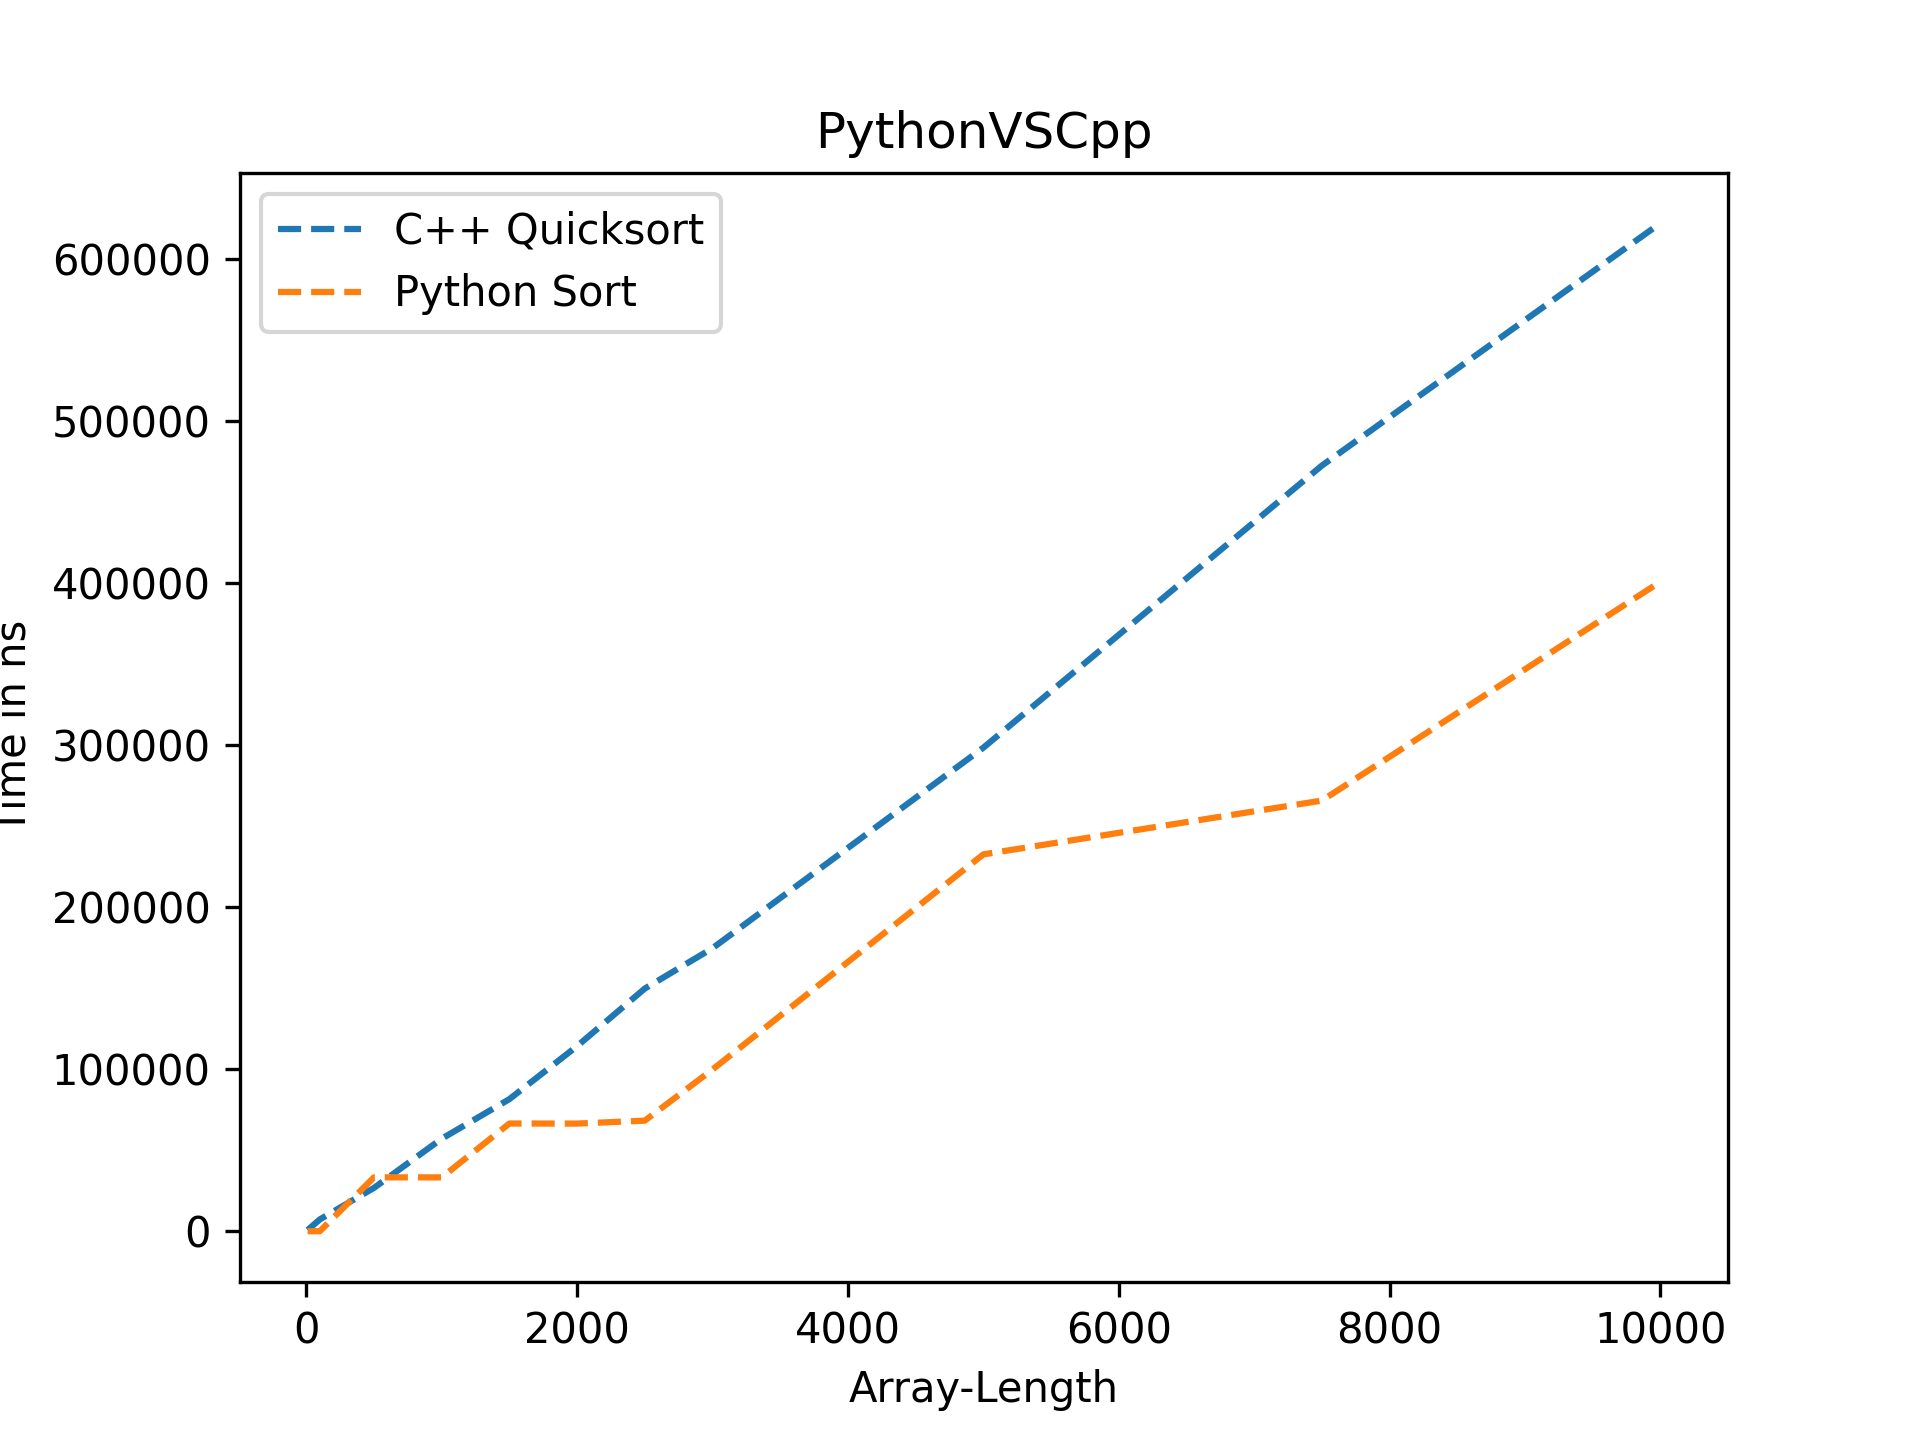
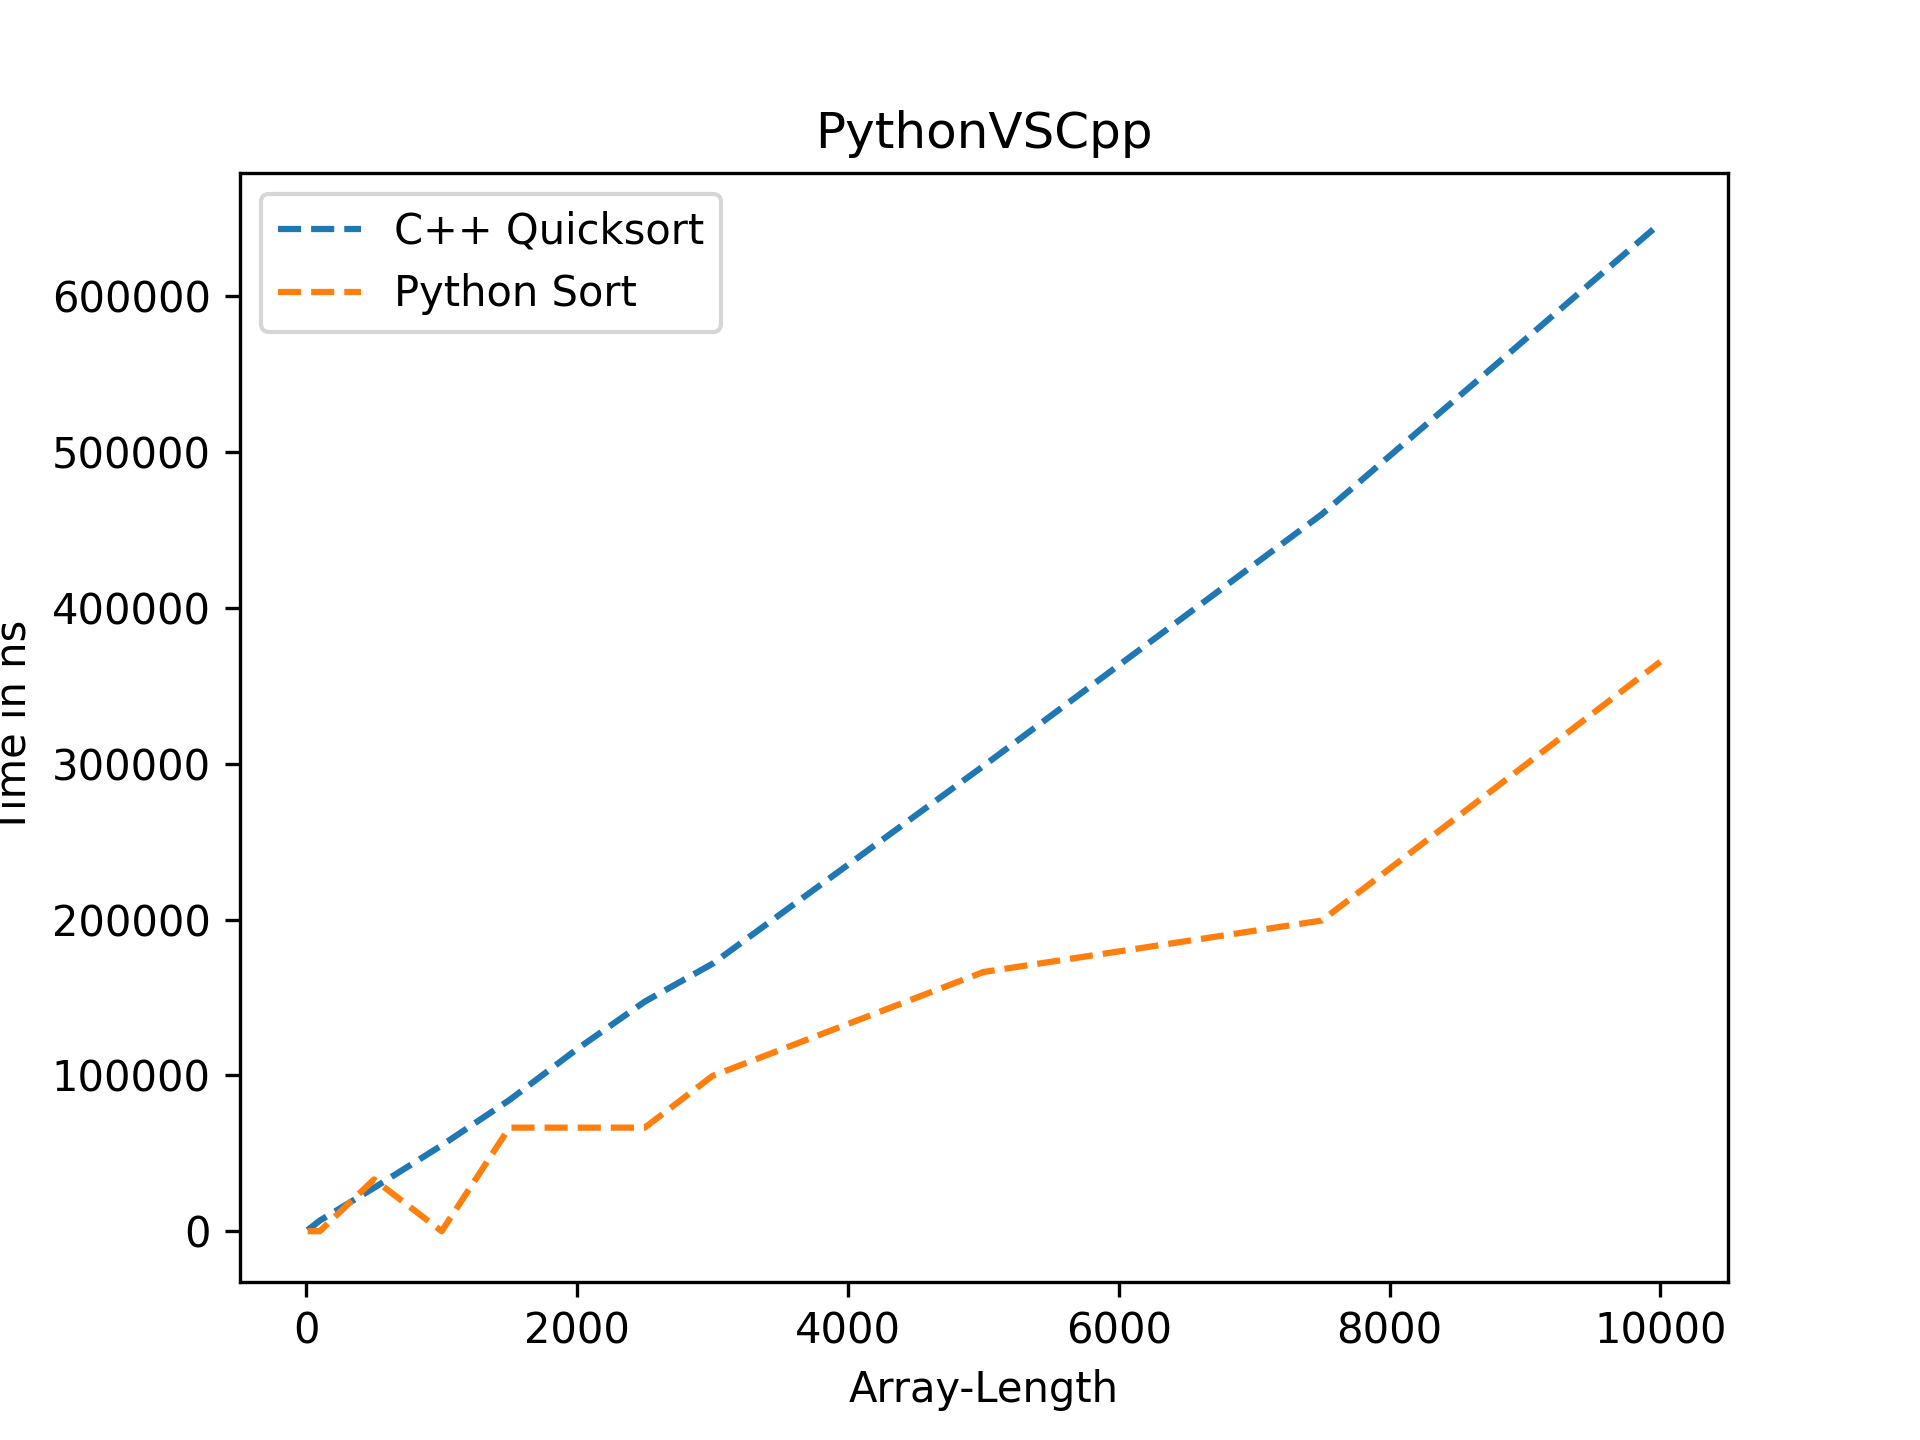
removed old result added empty list test

diff --git a/bench/bench.py b/bench/bench.py
@@ -12,6 +12,7 @@ def test(func,*args):
         assert np.array_equal(arr, arr_sorted)
     
     _test(np.array(dtype=np.intc, object=[1, 2, 3, 4]))
+    _test(np.array(dtype=np.intc, object=[]))
     #add more tests here
     print("\t Passed!")
 
@@ -43,7 +44,7 @@ def save_figure(name):
     plt.clf()
     os.startfile(name + ".png")
 
-if False:
+if True:
     #we reduced the itcount for benchs which take long
     print("Starting Benching...")
     plt.plot(sample_sizes, bench(10,sorting.quick_sort, sorting.pivot_half),"--", label="Python Quicksort (half)")
